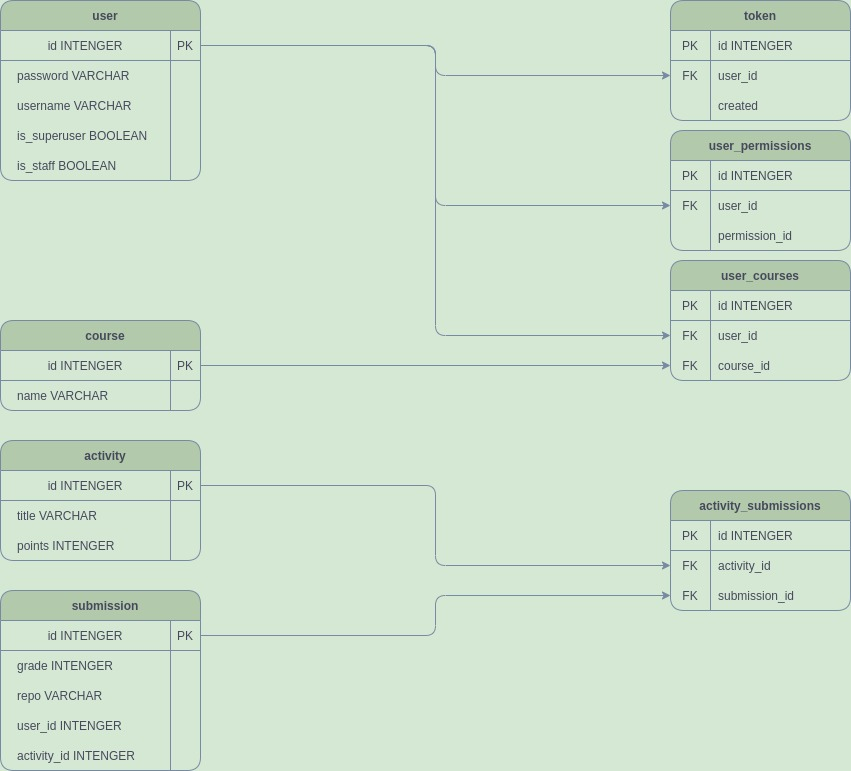
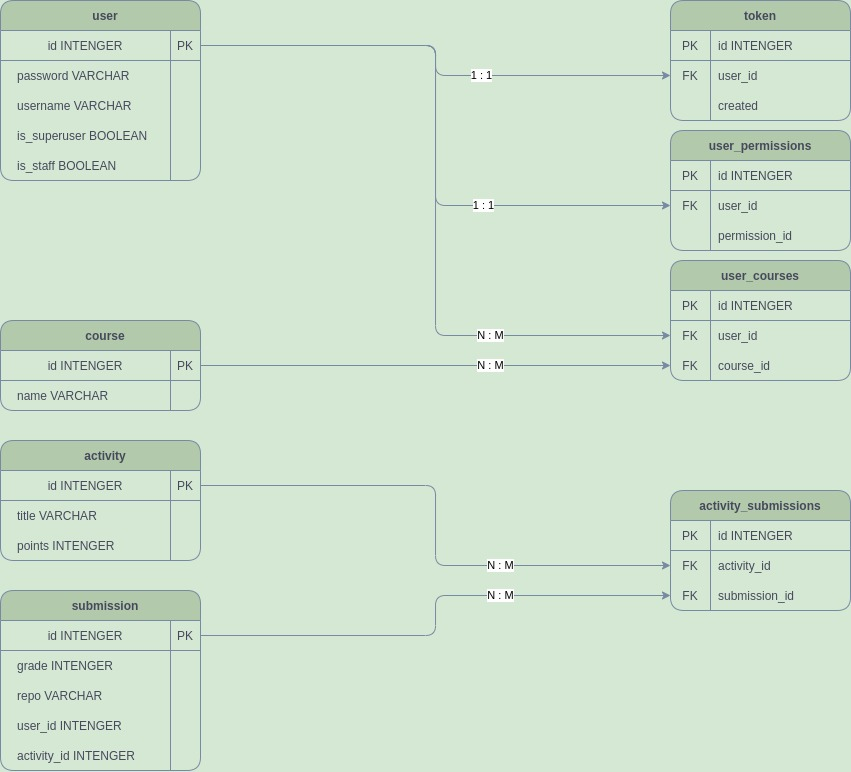
feat: class names and diagram

diff --git a/activity/views.py b/activity/views.py
@@ -1,19 +1,19 @@
-from django.contrib.auth.models import User
 from rest_framework.views import APIView
 from rest_framework.response import Response
 from rest_framework import status
 from rest_framework.authentication import TokenAuthentication
 
-from kanvas.exceptions import BadRequestError, NotFoundError, OnlyThisError
+from kanvas.exceptions import BadRequestError
 from kanvas.permissions import IsFacilitador, IsStudent
 
+from django.contrib.auth.models import User
 from django.db import IntegrityError
 
 from activity.models import Activity, Submission
 from activity.serializers import ActivitySerializer, SubmissionSerializer
 
 
-class handleActivities(APIView):
+class HandleActivities(APIView):
     authentication_classes = [TokenAuthentication]
     permission_classes = [IsFacilitador]
     name = "Activity"
@@ -40,7 +40,7 @@ class handleActivities(APIView):
         return Response(activitiesSerializers, status=status.HTTP_200_OK)
 
 
-class handleActivitiesById(APIView):
+class HandleActivitiesById(APIView):
     def put(self, request, activity_id="") -> Response:
         try:
             data = request.data
@@ -69,7 +69,7 @@ class handleActivitiesById(APIView):
             return Response(err.message, status=status.HTTP_400_BAD_REQUEST)
 
 
-class handleSubmission(APIView):
+class HandleSubmission(APIView):
     authentication_classes = [TokenAuthentication]
     permission_classes = [IsStudent]
     name = "Submission"
@@ -93,7 +93,7 @@ class handleSubmission(APIView):
         return Response(submission, status=status.HTTP_201_CREATED)
 
 
-class handleSubmissionById(APIView):
+class HandleSubmissionById(APIView):
     authentication_classes = [TokenAuthentication]
     permission_classes = [IsFacilitador]
     name = "Submission"
@@ -107,7 +107,7 @@ class handleSubmissionById(APIView):
         return Response(submission, status=status.HTTP_200_OK)
 
 
-class handleGetSubmissions(APIView):
+class HandleGetSubmissions(APIView):
     authentication_classes = [TokenAuthentication]
 
     def get(self, request) -> Response:

diff --git a/activity/urls.py b/activity/urls.py
@@ -1,16 +1,16 @@
 from django.urls import path
 from activity.views import (
-    handleActivities,
-    handleActivitiesById,
-    handleGetSubmissions,
-    handleSubmission,
-    handleSubmissionById,
+    HandleActivities,
+    HandleActivitiesById,
+    HandleGetSubmissions,
+    HandleSubmission,
+    HandleSubmissionById,
 )
 
 urlpatterns = [
-    path("activities/", handleActivities.as_view()),
-    path("activities/<int:activity_id>/", handleActivitiesById.as_view()),
-    path("activities/<int:activity_id>/submissions/", handleSubmission.as_view()),
-    path("submissions/<int:submission_id>/", handleSubmissionById.as_view()),
-    path("submissions/", handleGetSubmissions.as_view()),
+    path("activities/", HandleActivities.as_view()),
+    path("activities/<int:activity_id>/", HandleActivitiesById.as_view()),
+    path("activities/<int:activity_id>/submissions/", HandleSubmission.as_view()),
+    path("submissions/<int:submission_id>/", HandleSubmissionById.as_view()),
+    path("submissions/", HandleGetSubmissions.as_view()),
 ]
